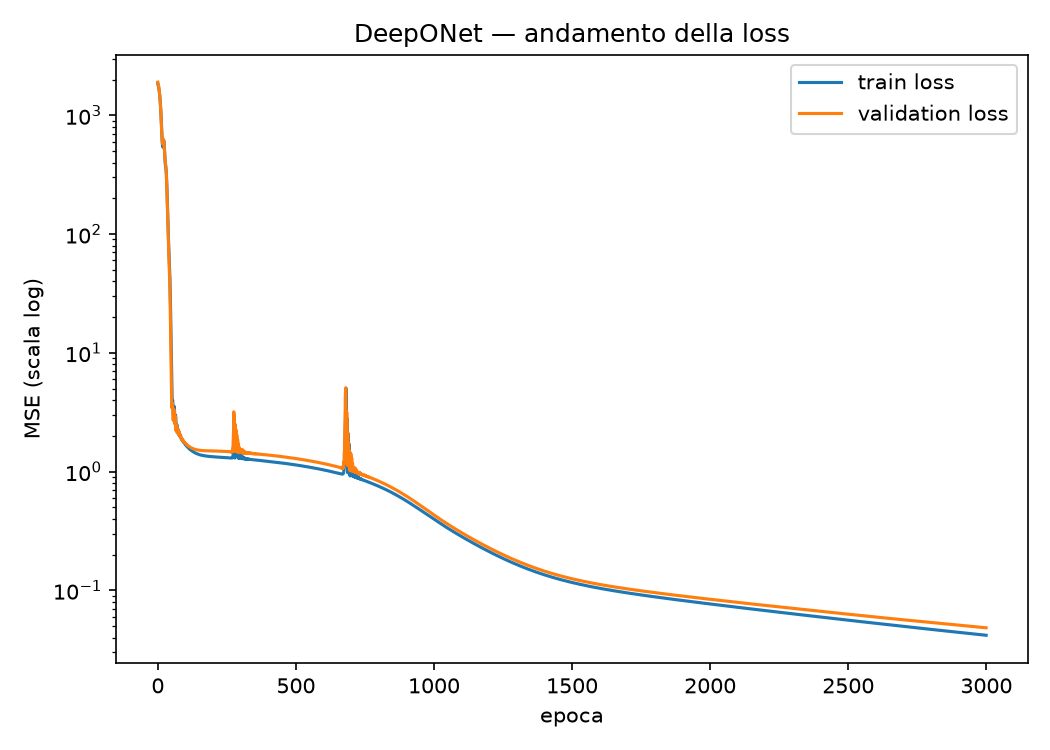
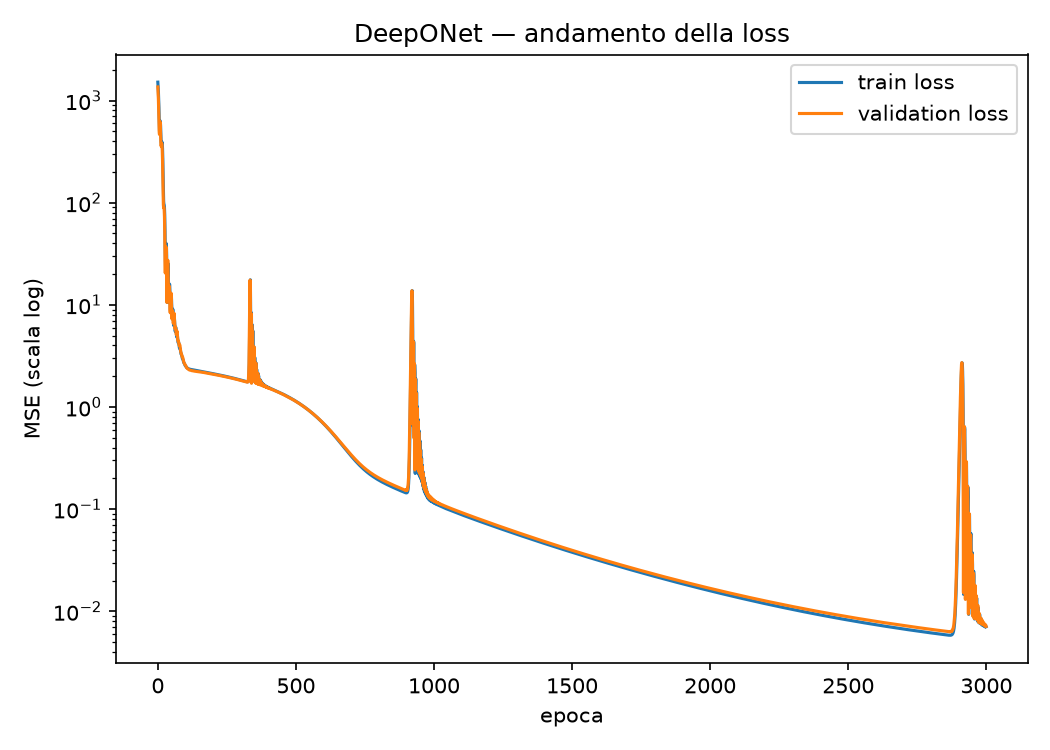
Add DeepONet analysis for validating operator learning
- Implemented comparison of dF/dk_c (autograd on DeepONet) with true analytical derivative dn_k/dk evaluated at k_c.
- Added functionality to validate that the network has correctly learned the operator structure, not just the values of F.
- Introduced sensitivity kernel computation for a single profile at a given k_c.
- Enhanced plotting capabilities to visualize the comparison between learned and true derivatives.

diff --git a/main_deeponet.py b/main_deeponet.py
@@ -1,19 +1,42 @@
 from src.models.deeponet import DeepONet
 from src.data.deeponet_dataset import build_deeponet_dataset
-from src.training.train_deeponet import split_deeponet_dataset, train_deeponet, plot_deeponet_loss, plot_flux_prediction_test
+from src.training.train_deeponet import (
+    split_deeponet_dataset, train_deeponet, plot_deeponet_loss, plot_flux_prediction_test)
+from src.training.deeponet_analysis import (validate_dF_dkc, plot_dF_dkc_comparison, compute_sensitivity_kernel, plot_sensitivity_kernel)
 
 N_SENSORS = 50
 
 data = build_deeponet_dataset(
-    alpha_min=1.0, alpha_max=2.0, n_samples=2000, A=1.0,
+    alpha_min=1.0, alpha_max=2.0, n_samples=5000, A=1.0,
     k_min=0.1, k_max=1.0, n_sensors=N_SENSORS,
     k_c_min=0.2, k_c_max=0.9
 )
 
 splits = split_deeponet_dataset(data, train_frac=0.6, val_frac=0.2, test_frac=0.2)
 
-model = DeepONet(n_sensors=N_SENSORS, latent_dim=32, hidden=64)
+model = DeepONet(n_sensors=N_SENSORS, latent_dim=64, hidden=128)
 model, history = train_deeponet(model, splits, epochs=3000, lr=1e-3)
 
 plot_deeponet_loss(history, save_path="outputs/deeponet_loss.png", show=False)
 plot_flux_prediction_test(model, splits["test"], save_path="outputs/deeponet_test.png", show=False)
+
+# --- Analisi: validazione dF/dk_c ---
+test_data = splits["test"]
+
+# servono anche gli alpha corrispondenti al test set, per il confronto analitico —
+# vedi nota sotto: build_deeponet_dataset non li restituisce ancora esplicitamente
+dF_learned, dF_true = validate_dF_dkc(
+    model, test_data["profiles"], test_data["alphas"], test_data["k_c"], A=1.0
+)
+
+plot_dF_dkc_comparison(dF_learned, dF_true, save_path="outputs/dF_dkc_validation.png", show=False)
+
+k_c_fixed = 0.5
+profile_example = test_data["profiles"][0]  # un singolo profilo dal test set
+
+kernel = compute_sensitivity_kernel(model, profile_example, k_c_value=k_c_fixed)
+
+plot_sensitivity_kernel(
+    kernel, data["sensor_grid"], k_c_value=k_c_fixed, k_min=0.1,
+    save_path="outputs/sensitivity_kernel.png", show=False
+)

diff --git a/src/training/deeponet_analysis.py b/src/training/deeponet_analysis.py
@@ -29,3 +29,32 @@ def plot_dF_dkc_comparison(dF_learned, dF_true, save_path=None, show=True):
     if save_path: plt.savefig(save_path, dpi=150)
     if show: plt.show()
     plt.close()
+
+def compute_sensitivity_kernel(model, profile_single, k_c_value):
+    """
+    Kernel di sensibilità K(k_i) = dF/dn_k(k_i) per UN singolo profilo,
+    ad un dato k_c.
+    """
+    profile = profile_single.clone().unsqueeze(0).requires_grad_(True)  # (1, n_sensors)
+    k_c = torch.tensor([[k_c_value]], dtype=torch.float32)
+
+    F_pred = model(profile, k_c)
+    kernel = torch.autograd.grad(F_pred, profile)[0]
+    return kernel.squeeze()  # (n_sensors,)
+
+
+def plot_sensitivity_kernel(kernel, sensor_grid, k_c_value, k_min=None, save_path=None, show=True):
+    plt.figure(figsize=(7, 5))
+    plt.plot(sensor_grid, kernel.detach().numpy(), linewidth=2)
+    plt.axvline(k_c_value, color="red", linestyle="--", label=r"$k_c$")
+    if k_min is not None:
+        plt.axvline(k_min, color="green", linestyle="--", label=r"$k_{min}$")
+    plt.axhline(0, color="black", linewidth=0.6)
+    plt.xlabel("k")
+    plt.ylabel(r"$\partial F / \partial n_k(k)$")
+    plt.title(f"Kernel di sensibilità del flusso, $k_c={k_c_value}$")
+    plt.legend()
+    plt.tight_layout()
+    if save_path: plt.savefig(save_path, dpi=150)
+    if show: plt.show()
+    plt.close()

diff --git a/src/data/deeponet_dataset.py b/src/data/deeponet_dataset.py
@@ -30,15 +30,17 @@ def build_deeponet_dataset(alpha_min, alpha_max, n_samples, A, k_min, k_max,
     """
     rng = np.random.default_rng(seed)
     alphas = rng.uniform(alpha_min, alpha_max, size=n_samples)
-    k_cs = rng.uniform(k_c_min, k_c_max, size=n_samples)
+    # invece di campionare k_c uniformemente, sovracampiona vicino al bordo inferiore
+    k_cs = rng.beta(a=0.5, b=2.0, size=n_samples) * (k_c_max - k_c_min) + k_c_min
 
     sensor_grid = sample_sensor_grid(k_min, k_max, n_sensors)
     profiles = generate_power_law_profiles(alphas, A, sensor_grid)
     F_values = compute_true_flux(alphas, A, k_cs, k_min)
 
     return {
-        "profiles": torch.tensor(profiles, dtype=torch.float32),
-        "k_c": torch.tensor(k_cs, dtype=torch.float32).reshape(-1, 1),
-        "F": torch.tensor(F_values, dtype=torch.float32).reshape(-1, 1),
-        "sensor_grid": sensor_grid,
-    }
+    "profiles": torch.tensor(profiles, dtype=torch.float32),
+    "k_c": torch.tensor(k_cs, dtype=torch.float32).reshape(-1, 1),
+    "F": torch.tensor(F_values, dtype=torch.float32).reshape(-1, 1),
+    "alphas": torch.tensor(alphas, dtype=torch.float32).reshape(-1, 1),  # aggiunto
+    "sensor_grid": sensor_grid,
+}

diff --git a/src/models/deeponet.py b/src/models/deeponet.py
@@ -10,7 +10,7 @@ class DeepONet(nn.Module):
     Trunk net: codifica la coordinata di valutazione k_c.
     Output: prodotto scalare tra le due rappresentazioni latenti.
     """
-    def __init__(self, n_sensors, latent_dim=32, hidden=64):
+    def __init__(self, n_sensors, latent_dim=64, hidden=128):
         super().__init__()
         self.branch = nn.Sequential(
             nn.Linear(n_sensors, hidden), nn.Tanh(),

diff --git a/src/training/train_deeponet.py b/src/training/train_deeponet.py
@@ -16,6 +16,7 @@ def split_deeponet_dataset(data, train_frac=0.6, val_frac=0.2, test_frac=0.2, se
             "profiles": data["profiles"][indices],
             "k_c": data["k_c"][indices],
             "F": data["F"][indices],
+            "alphas": data["alphas"][indices],  # aggiunto
         }
 
     return {"train": subset(idx_train), "val": subset(idx_val), "test": subset(idx_test)}
